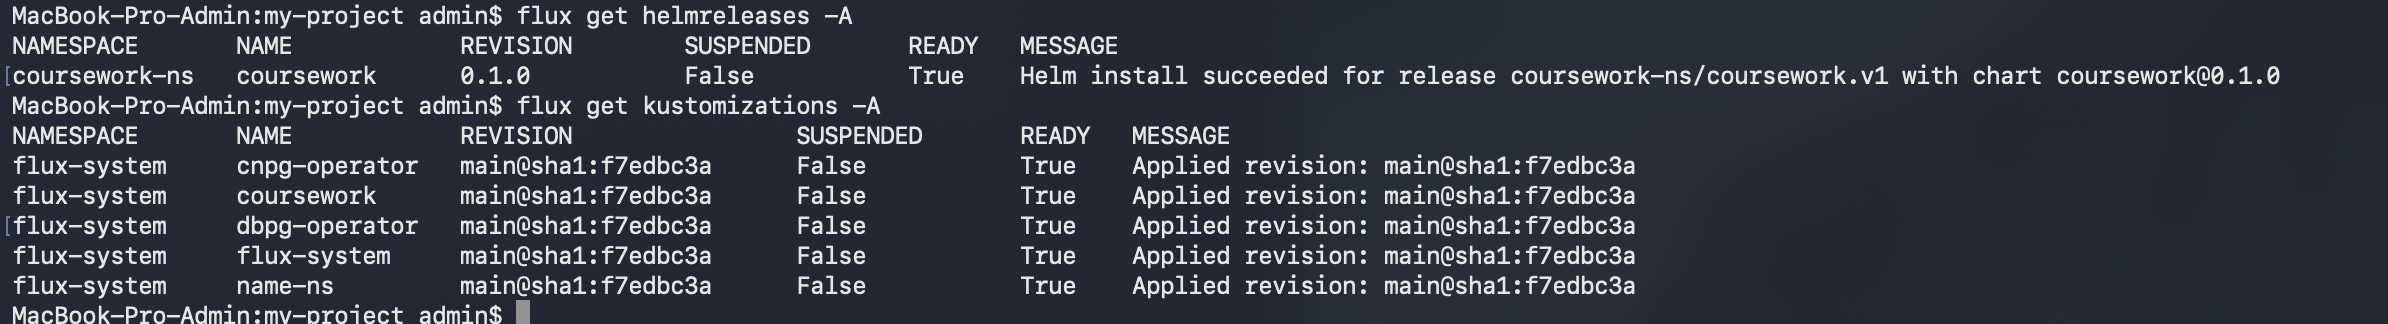
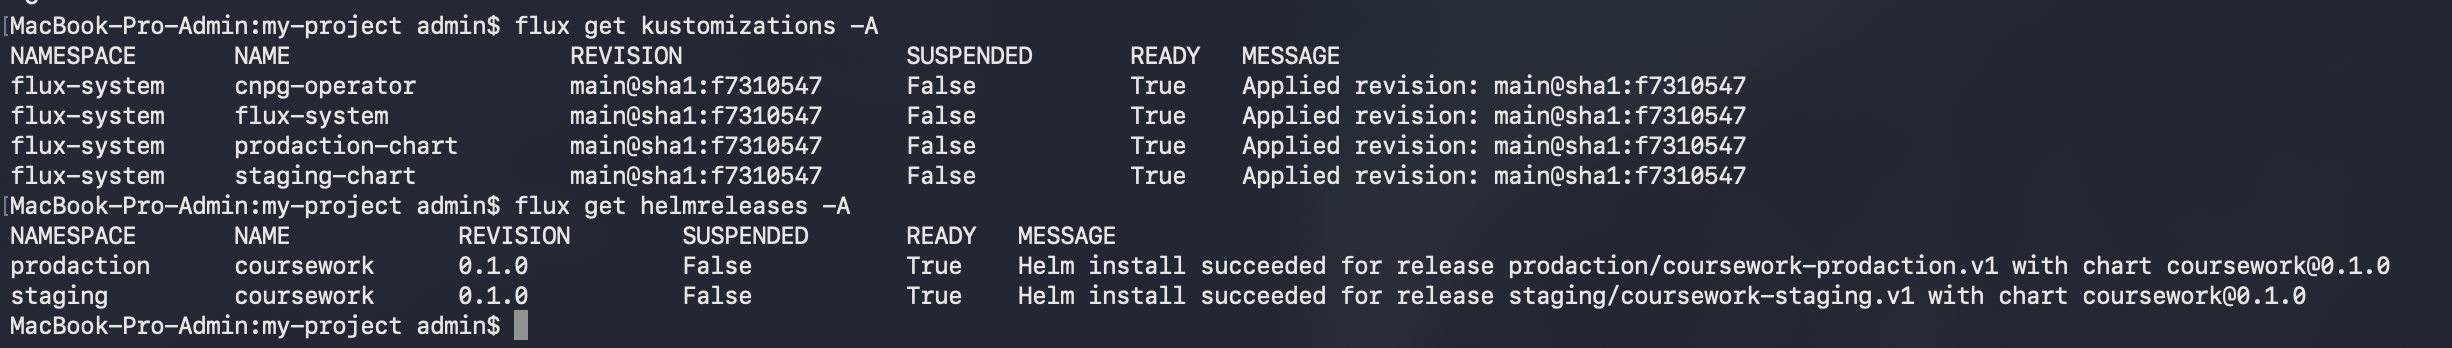
coursework complete

diff --git a/README.md b/README.md
@@ -68,3 +68,96 @@
 ```
 
 ![alt text](images/work-result.png)
+
+```sh
+bash-3.2$  flux bootstrap github --owner=rdlsolutions  --repository=coursework-rd  --branch=main  --path=clusters/local
+► connecting to github.com
+► cloning branch "main" from Git repository "https://github.com/rdlsolutions/coursework-rd.git"
+✔ cloned repository
+► generating component manifests
+✔ generated component manifests
+✔ component manifests are up to date
+► installing components in "flux-system" namespace
+✔ installed components
+✔ reconciled components
+► determining if source secret "flux-system/flux-system" exists
+► generating source secret
+✔ public key: ecdsa-sha2-nistp384 AAAAE2VjZHNhLXNoYTItbmlzdHAzODQAAAAIbmlzdHAzODQAAABhBIba5m8yw/bEHmjoG8YQGZJA+IdNRzIO/WqfmR3AfPsFKlvWaR30d/rXcMbnTRQRNIzhjBD6KTsBIYalVBoMgm+z8xSzZxVPyjPqiKjYZYUofk4rnCwp3bJTkr01H8JkLw==
+✔ configured deploy key "flux-system-main-flux-system-./clusters/local" for "https://github.com/rdlsolutions/coursework-rd"
+► applying source secret "flux-system/flux-system"
+✔ reconciled source secret
+► generating sync manifests
+✔ generated sync manifests
+✔ sync manifests are up to date
+► applying sync manifests
+✔ reconciled sync configuration
+◎ waiting for GitRepository "flux-system/flux-system" to be reconciled
+✔ GitRepository reconciled successfully
+◎ waiting for Kustomization "flux-system/flux-system" to be reconciled
+✔ Kustomization reconciled successfully
+► confirming components are healthy
+✔ helm-controller: deployment ready
+✔ kustomize-controller: deployment ready
+✔ notification-controller: deployment ready
+✔ source-controller: deployment ready
+✔ all components are healthy
+
+```
+
+![alt text](images/workloads.png)
+
+Різниця між staging та prodaction
+
+```sh
+bash-3.2$ kubectl get all -n prodaction
+NAME                                            READY   STATUS    RESTARTS      AGE
+pod/coursework-db-1                             1/1     Running   0             45m
+pod/coursework-db-2                             1/1     Running   0             45m
+pod/coursework-db-3                             1/1     Running   0             44m
+pod/coursework-rd-deployment-7c5c557886-ft27p   1/1     Running   5 (45m ago)   47m
+pod/coursework-rd-deployment-7c5c557886-zjq86   1/1     Running   5 (45m ago)   46m
+
+NAME                       TYPE        CLUSTER-IP     EXTERNAL-IP   PORT(S)    AGE
+service/coursework-db-r    ClusterIP   10.43.21.51    <none>        5432/TCP   47m
+service/coursework-db-ro   ClusterIP   10.43.34.79    <none>        5432/TCP   47m
+service/coursework-db-rw   ClusterIP   10.43.56.164   <none>        5432/TCP   47m
+service/coursework-svc     ClusterIP   10.43.223.65   <none>        8080/TCP   47m
+
+NAME                                       READY   UP-TO-DATE   AVAILABLE   AGE
+deployment.apps/coursework-rd-deployment   2/2     2            2           47m
+
+NAME                                                  DESIRED   CURRENT   READY   AGE
+replicaset.apps/coursework-rd-deployment-7c5c557886   2         2         2       47m
+
+NAME                                                 REFERENCE                             TARGETS       MINPODS   MAXPODS   REPLICAS   AGE
+horizontalpodautoscaler.autoscaling/coursework-hpa   Deployment/coursework-rd-deployment   cpu: 0%/80%   2         5         2          47m
+-----------------------------------------------------------------------------------
+bash-3.2$ kubectl get all -n staging
+NAME                                            READY   STATUS    RESTARTS      AGE
+pod/coursework-db-1                             1/1     Running   0             45m
+pod/coursework-db-2                             1/1     Running   0             45m
+pod/coursework-db-3                             1/1     Running   0             44m
+pod/coursework-rd-deployment-5fbd8774d4-jzpxq   1/1     Running   5 (45m ago)   47m
+
+NAME                       TYPE        CLUSTER-IP      EXTERNAL-IP   PORT(S)    AGE
+service/coursework-db-r    ClusterIP   10.43.102.103   <none>        5432/TCP   47m
+service/coursework-db-ro   ClusterIP   10.43.22.178    <none>        5432/TCP   47m
+service/coursework-db-rw   ClusterIP   10.43.220.248   <none>        5432/TCP   47m
+service/coursework-svc     ClusterIP   10.43.13.34     <none>        8080/TCP   47m
+
+NAME                                       READY   UP-TO-DATE   AVAILABLE   AGE
+deployment.apps/coursework-rd-deployment   1/1     1            1           47m
+
+NAME                                                  DESIRED   CURRENT   READY   AGE
+replicaset.apps/coursework-rd-deployment-5fbd8774d4   1         1         1       47m
+bash-3.2$ 
+
+```
+
+### Staging
+
+![alt text](images/app-staging.png)
+
+### Prodaction
+
+![alt text](images/app-prodaction.png)
